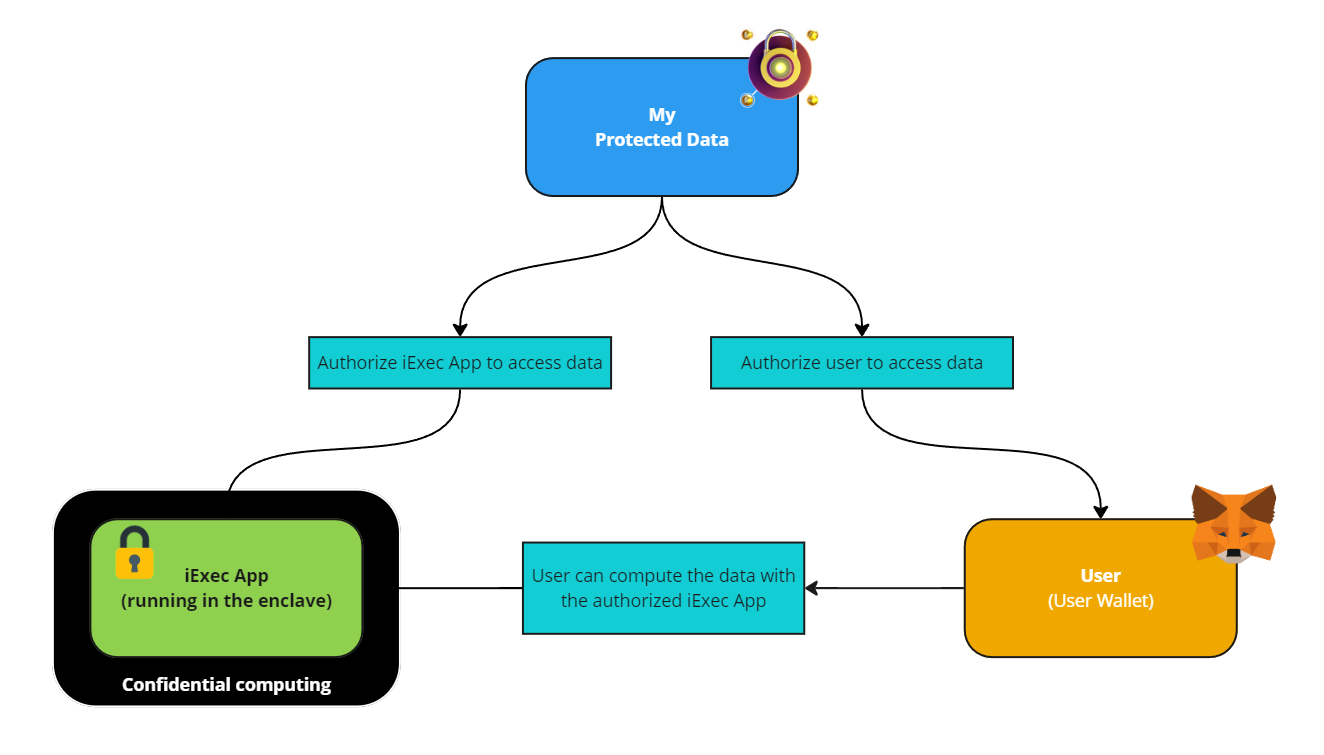
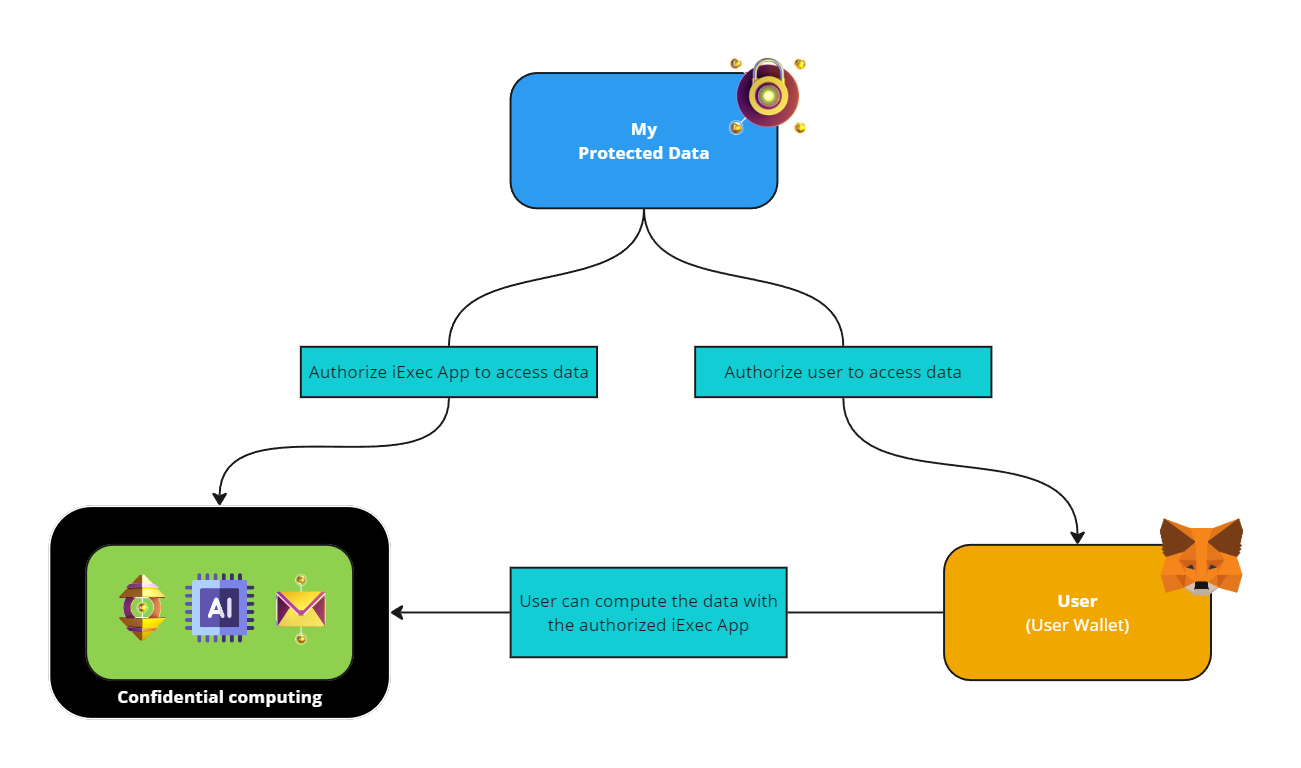
refactor: Extract GrantAccess component and clean up code

diff --git a/overview/helloWorld/5-manageDataAccess.md b/overview/helloWorld/5-manageDataAccess.md
@@ -2,17 +2,32 @@
 import GrantAccess from '../../components/GrantAccess.vue';
 </script>
 
-## 🧩 Grant Access to Your iDapp
+# Manage Data Access
 
-What do you mean by "grant access"?, you may ask. Well, it's simple. When you
+> Reading 🕒 4 mins
+
+What do you mean by **grant access**?, you may ask. Well, it's simple. When you
 protect your data, you can authorize users and specific applications to access
-it. This is where you grant access to your iDapp. Like that an authorized user
-will be able to use an authorized app to access your protected data and compute
-it.
+it. Like that an authorized user will be able to use an authorized iExec
+Application to access your protected data and compute it.
+
+## 🧩 The authorization diagram
+
+Here is a simple diagram to explain the process:
+
+![alt text](/assets/hello-world/process.png)
+
+1. **Protect Data** : You protect your data using the DataProtector SDK.
+2. **Grant Access** : You authorize a user (wallet address) to access your
+   protected data.
+3. **Grant Access** : You authorize your iExec Application to access your
+   protected data.
+4. **Compute Data** : The authorized user can now run your iExec Application to
+   process your protected data.
+
+## 🧩 Let's grant access
 
 Authorize your iExec Application to access your protected data using the button
 below.here is a simple diagram to explain the process:
-
-![alt text](/assets/hello-world/process.png)
 
 <GrantAccess />

diff --git a/overview/helloWorld/4-useProtectedData.md b/overview/helloWorld/4-useProtectedData.md
@@ -20,6 +20,7 @@ system:
 - [**Docker**](https://hub.docker.com/) have docker on your computer
 - [**DockerHub**](https://docs.docker.com/engine/install/) have a dockerhub
   account
+- **A private key** from your Ethereum wallet (e.g., MetaMask)
 
 ## Installation
 
@@ -113,6 +114,13 @@ question `? Would you like to access protected data inside your iDapp?`.
 
 In a few minutes, you will have your iExec App able to run in a trusted
 execution environment and process protected data that's amzing right?
+
+::: tip iExec App Address
+
+At the end of this tutorial, you will have the **iExec App address**. don't
+forget to save it for the next chapter. ![alt text](/assets/hello-world/app.png)
+
+:::
 
 ## 🧩 Keys takeway
 
